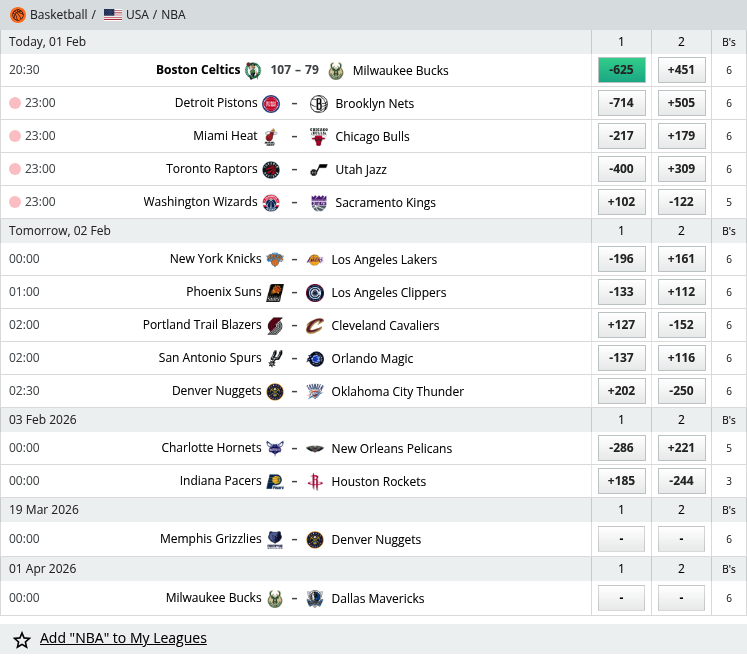
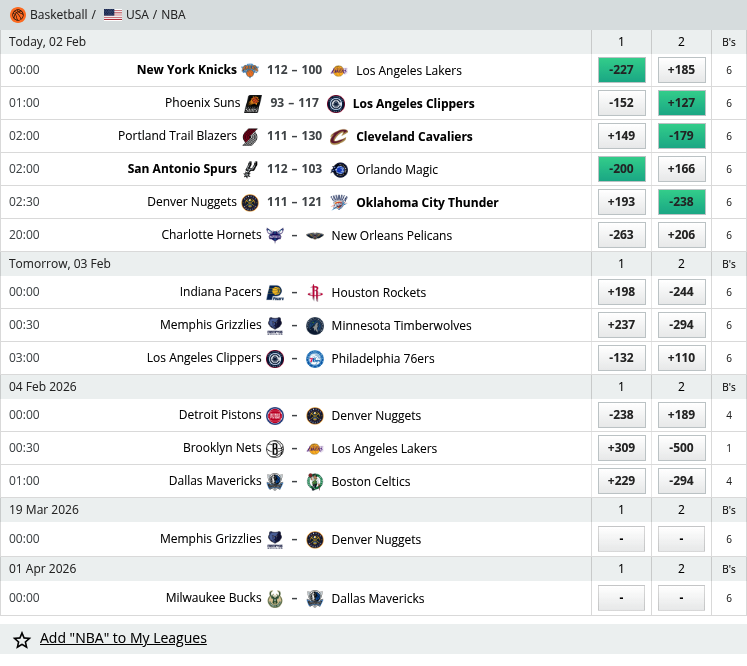
fix: analyze_screenshot day

diff --git a/NBA/analyze_odds.py b/NBA/analyze_odds.py
@@ -16,7 +16,9 @@ def encode_image(image_path):
 def analyze_screenshot():
     # 1. Setup paths
     base_dir = Path(__file__).parent.parent
-    screenshot_path = base_dir / "screenshots" / "oddsportal_nba_01.png"
+    taiwan_tz = timezone(timedelta(hours=8))
+    day = datetime.now(taiwan_tz).strftime('%d')
+    screenshot_path = base_dir / "screenshots" / f"oddsportal_nba_{day}.png"
     
     if not screenshot_path.exists():
         print(f"❌ Screenshot not found: {screenshot_path}")

diff --git a/README.md b/README.md
@@ -159,16 +159,16 @@ python screenshot.py
 - **設定方式**：到 repo Settings → Secrets → Actions，新增 `SCREENSHOTONE_ACCESS_KEY`
 - **手動觸發**：Actions → Daily Screenshot → Run workflow
 
-## NBA 賠率數據抓取
+## NBA 賠率分析
 
-使用 [Jina AI Reader](https://jina.ai/reader/) 從 OddsPortal 抓取 NBA 比賽結果和賠率數據，自動識別 underdog（爆冷門）比賽。
+使用 AI 視覺分析從 OddsPortal 截圖中提取 NBA 比賽結果和賠率，自動識別 upset（爆冷門）比賽。
 
 ### 功能特色
 
-- 🔄 **即時數據**：使用 Jina AI Reader API 抓取最新的比賽結果和賠率
-- 🎯 **自動識別爆冷門**：自動找出 underdog（賠率較高的隊伍）獲勝的比賽
-- 💾 **JSON 輸出**：生成結構化的 JSON 數據供前端顯示
-- 🔒 **容錯機制**：API 失敗時自動使用樣本數據作為後備
+- 📸 **截圖分析**：從 OddsPortal 截圖中提取比賽數據
+- 🤖 **AI 視覺辨識**：使用 GitHub Models (GPT-4o) 分析圖片內容
+- 🎯 **自動識別 Upset**：找出 underdog（正賠率）擊敗 favorite（負賠率）的比賽
+- 💾 **JSON 輸出**：生成結構化的 JSON 數據
 
 ### 手動執行
 
@@ -176,12 +176,15 @@ python screenshot.py
 # 安裝依賴
 pip install -r requirements.txt
 
-# 設定 API Key（可選，但建議使用）
-# 在 .env 檔案中添加：
-# JINA_API_KEY=your_jina_api_key
+# 設定環境變數（在 .env 檔案中）
+# SCREENSHOTONE_ACCESS_KEY=your_key  # 截圖 API
+# GITHUB_TOKEN=your_token            # GitHub Models API
 
-# 執行抓取
-python NBA/scrape_odds.py
+# 執行截圖
+python screenshot.py
+
+# 分析賠率並識別 upsets
+python NBA/analyze_odds.py
 ```
 
 ### 輸出格式
@@ -190,28 +193,29 @@ python NBA/scrape_odds.py
 
 ```json
 {
-  "date": "2026-01-30",
-  "updated": "2026-01-30 15:39",
-  "total_games": 22,
-  "upset_count": 6,
-  "upset_rate": 27,
+  "date": "2026-02-02",
+  "updated": "2026-02-02 12:00",
+  "total_games": 5,
+  "upset_count": 1,
+  "upset_rate": 20,
   "upsets": [
     {
-      "winner_tricode": "ATL",
-      "winner": "Atlanta Hawks",
+      "winner_tricode": "LAC",
+      "winner": "Los Angeles Clippers",
       "winner_score": 117,
-      "winner_odds": 170,
-      "loser_tricode": "BOS",
-      "loser": "Boston Celtics",
-      "loser_score": 106
+      "winner_odds": 127,
+      "loser_tricode": "PHX",
+      "loser": "Phoenix Suns",
+      "loser_score": 93,
+      "loser_odds": -152
     }
   ]
 }
 ```
 
-### API 說明
+### Upset 判斷規則
 
-- **Jina AI Reader**：將網頁轉換為乾淨的 Markdown 格式，方便解析
-- **免費額度**：每月有一定的免費請求額度
-- **申請方式**：訪問 [https://jina.ai/reader/](https://jina.ai/reader/) 獲取 API key
+- **正賠率 vs 負賠率**：正賠率（如 +127）的 underdog 擊敗負賠率（如 -152）的 favorite = Upset
+- **雙負賠率**：賠率較高（接近 0）的隊伍贏 = 輕微 Upset
+- **雙正賠率**：賠率較高的隊伍贏 = Upset
 
